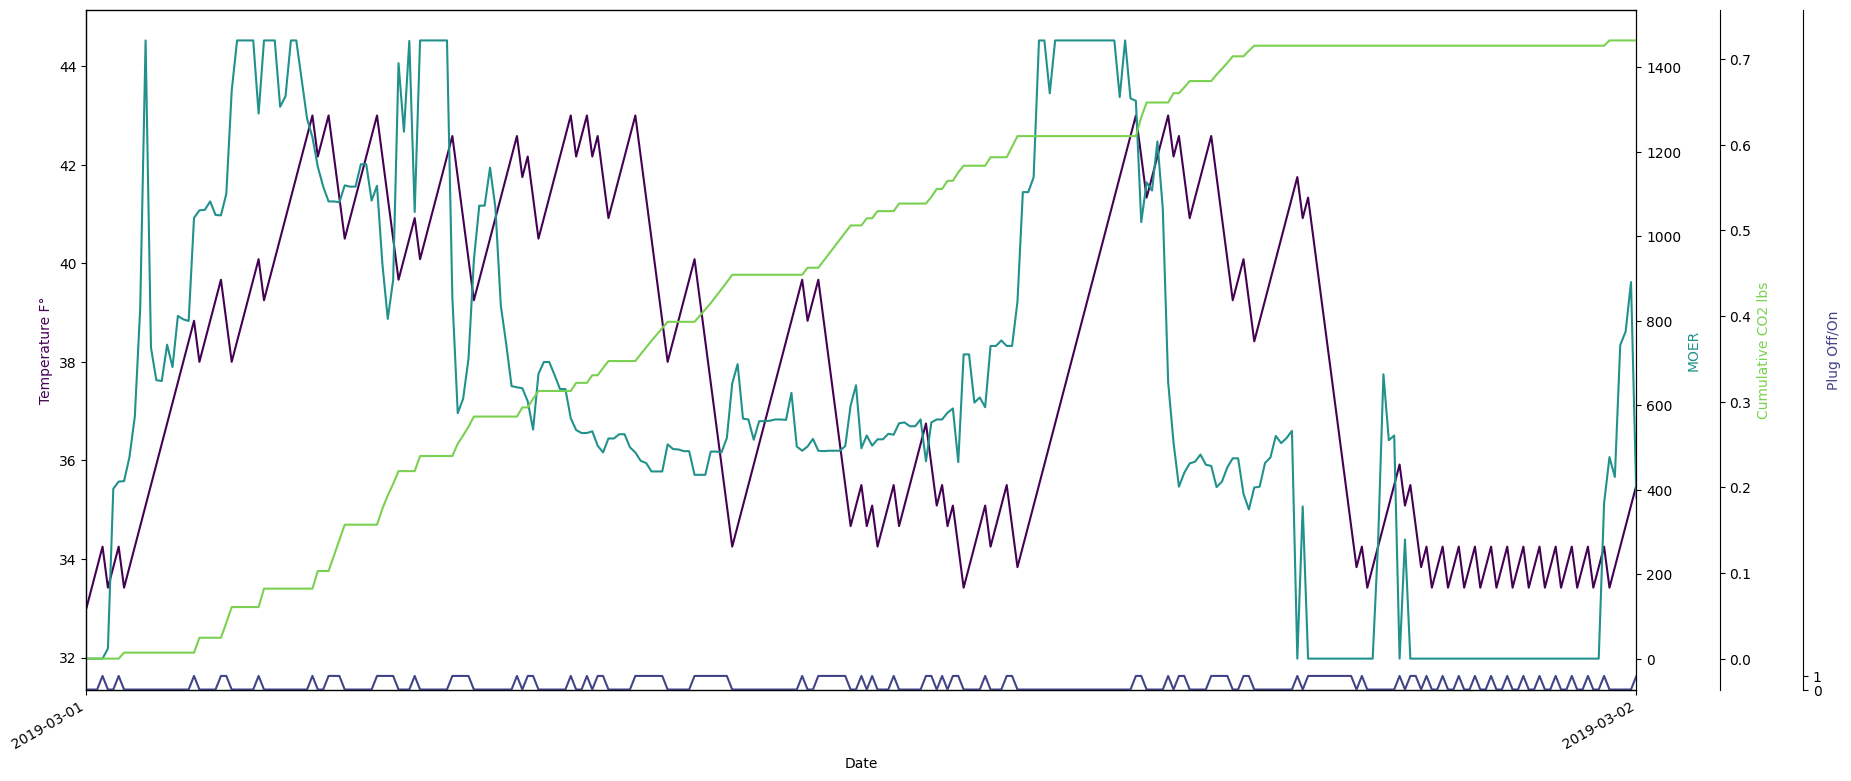
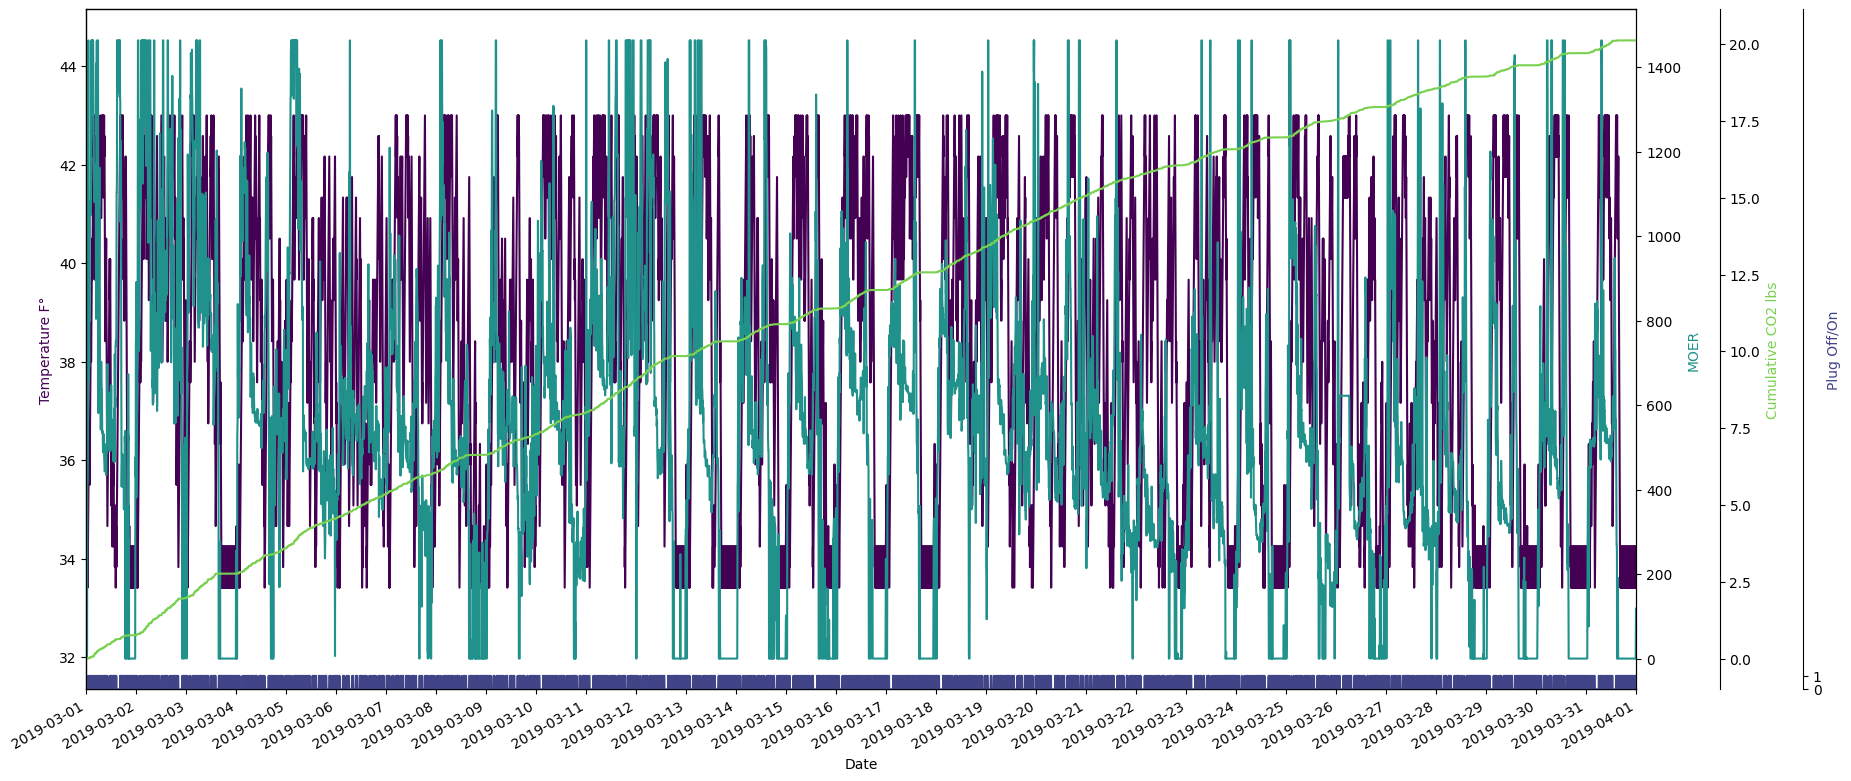
consolidate and rename paramerters

diff --git a/src/models.py b/src/models.py
@@ -16,34 +16,34 @@ class Naive:
         else:
             return 0
 
-    def update_horizon(self, time, moer):
+    def update_forecast(self, time, moer):
         pass
 
 
 class LinearProgramming:
     def __init__(
         self,
-        initial_horizon,
+        initial_forecast,
         initial_temp,
-        temp_delta_on,
-        temp_delta_off,
+        delta_on,
+        delta_off,
         temp_min,
         temp_max,
-        optimization_timesteps,
+        optimization_horizon_timesteps,
     ):
 
-        self.horizon = initial_horizon
+        self.forecast = initial_forecast
         self.temp_now = initial_temp
-        self.temp_delta_on = temp_delta_on
-        self.temp_delta_off = temp_delta_off
+        self.delta_on = delta_on
+        self.delta_off = delta_off
         self.temp_min = temp_min
         self.temp_max = temp_max
 
-        self.moer_history_sum = sum(initial_horizon)
-        self.moer_history_length = len(initial_horizon)
+        self.moer_history_sum = sum(initial_forecast)
+        self.moer_history_count = len(initial_forecast)
 
-        self.optimization_timesteps = optimization_timesteps
-        self.A = self.get_constraint_A(n=self.optimization_timesteps)
+        self.optimization_horizon_timesteps = optimization_horizon_timesteps
+        self.A = self.get_constraint_A(self.optimization_horizon_timesteps)
 
     def action(self, time):
         is_on = self.decide_action(time)
@@ -58,12 +58,12 @@ class LinearProgramming:
         elif self.temp_now + self.temp_delta(is_on=0) > self.temp_max:
             return 1
 
-        elif self.horizon[0] == 0:
+        elif self.forecast[0] == 0:
             return 1
 
         else:
-            b = self.get_constraint_b(self.optimization_timesteps)
-            c = self.get_cost(self.optimization_timesteps)
+            b = self.get_constraint_b(self.optimization_horizon_timesteps)
+            c = self.get_coefficients(self.optimization_horizon_timesteps)
             result = linprog(c, self.A, b, bounds=[(0, 1)], options={"maxiter": 50})
             logger.info(
                 f"at {time} temp: {self.temp_now} model's action: {result.x[0]}"
@@ -73,39 +73,35 @@ class LinearProgramming:
             return is_on
 
     def temp_delta(self, is_on):
-        return temprature_delta(is_on, self.temp_delta_on, self.temp_delta_off)
+        return temprature_delta(is_on, self.delta_on, self.delta_off)
 
-    def update_horizon(self, time, moer):
-        self.horizon = self.horizon[1:]
-        self.horizon.append(moer)
+    def update_forecast(self, time, moer):
+        self.forecast = self.forecast[1:]
+        self.forecast.append(moer)
         self.moer_history_sum += moer
-        self.moer_history_length += 1
+        self.moer_history_count += 1
 
-    def get_cost(self, n):
-        extension_length = n - len(self.horizon)
-        moer_average = self.moer_history_sum / self.moer_history_length
-        extended_horizon = self.horizon[:n] + [moer_average] * extension_length
-        return np.array(extended_horizon)
+    def get_coefficients(self, n):
+        extension_length = n - len(self.forecast)
+        moer_average = self.moer_history_sum / self.moer_history_count
+        extended_forecast = self.forecast[:n] + [moer_average] * extension_length
+        return np.array(extended_forecast)
 
     def get_constraint_b(self, n):
-        # max temperature constraint
         b_max_temp = [
-            self.temp_max - self.temp_now - self.temp_delta_off * x
-            for x in range(1, n + 1)
+            self.temp_max - self.temp_now - self.delta_off * x for x in range(1, n + 1)
         ]
         b_min_temp = [
-            self.temp_min - self.temp_now - self.temp_delta_off * x
-            for x in range(1, n + 1)
+            self.temp_min - self.temp_now - self.delta_off * x for x in range(1, n + 1)
         ]
         # multiply by -1 so that min temprature constraint is expressed as Ax <= b
         b_min_temp = -1 * np.array(b_min_temp)
         # combine the constraints
         b = np.concatenate((b_max_temp, b_min_temp))
-
         return b
 
     def get_constraint_A(self, n):
-        A_max_temp = np.tril(np.full((n, n), self.temp_delta_on - self.temp_delta_off))
+        A_max_temp = np.tril(np.full((n, n), self.delta_on - self.delta_off))
         # multiply by -1 so that min temprature constraint is expressed as Ax <= b
         A_min_temp = -1 * A_max_temp
         # combine the constraints

diff --git a/src/refrigerator_sim.py b/src/refrigerator_sim.py
@@ -6,49 +6,69 @@ from reader import read_time_series
 from datetime import datetime, timedelta
 from pathlib import Path
 
+# TODO implement as a config file
+##############
+# parameters #
+##############
+initial_temprature = 33
+maximum_temprature = 43
+minimum_temprature = 33
+
+# temprature(t + 1) = temprature(t) + delta_off + (delta_on * fridge_on(t))
+# where fridge_on(t) -> [0,1]
+delta_on = -10 / 12
+delta_off = 5 / 12
+fridge_power_kw = 0.2
+
+start_date = datetime(2019, 3, 1)
+end_date = datetime(2019, 4, 1)
+
+forecast_duration = timedelta(hours=1)
+timestep_duration = timedelta(minutes=5)
+
+optimization_horizon_timesteps = 24
+##############
+
+
 repo_root = Path(__file__).resolve().parent.parent
-data_file = repo_root / "data" / "MOERS.csv"
-horizon = [
+
+observations = read_time_series(repo_root / "data" / "MOERS.csv")
+initial_forecast = [
     observation.moer
-    for observation in read_time_series(data_file)
-    if datetime(2019, 3, 1) <= observation.time < datetime(2019, 3, 1, 1)
+    for observation in observations
+    if start_date <= observation.time <= start_date + forecast_duration
 ]
 
 lp_model = LinearProgramming(
-    initial_horizon=horizon,
-    initial_temp=33,
-    temp_delta_on=-10 / 12,
-    temp_delta_off=5 / 12,
-    temp_min=33,
-    temp_max=43,
-    optimization_timesteps=24,
+    initial_forecast,
+    initial_temprature,
+    delta_on,
+    delta_off,
+    minimum_temprature,
+    maximum_temprature,
+    optimization_horizon_timesteps,
 )
 
 sim = Simulator(
-    model=lp_model,
-    input_file=data_file,
-    start_date=datetime(2019, 3, 1),
-    end_date=datetime(2019, 4, 1),
-    horizon=timedelta(hours=1),
-    time_delta=timedelta(minutes=5),
+    lp_model, observations, start_date, end_date, forecast_duration, timestep_duration
 )
 
 sim.run()
 
-total_co2 = round(sim.total_co2(0.2 / 12), 3)
-print(f"total associated CO2: {total_co2} lbs")
+# TODO
+total_co2 = sim.total_co2(fridge_power_kw / 12)
+print(f"total associated CO2: {round(total_co2, 3)} lbs")
 
 total_runtime = sim.total_runtime()
 print(f"total fridge run time: {total_runtime}")
 
-# TODO implement configs to avoid the amount of parameter passing
 plot_refrigerator(
-    output_file=repo_root / "output" / "refrigerator.png",
-    events=sim.events,
-    power_in_kw=0.2,
-    temp_delta_on=-10 / 12,
-    temp_delta_off=5 / 12,
-    temp_max=43,
-    temp_min=33,
-    starting_temp=33,
+    repo_root / "output" / "refrigerator.png",
+    sim.events,
+    fridge_power_kw,
+    delta_on,
+    delta_off,
+    maximum_temprature,
+    minimum_temprature,
+    initial_temprature,
 )

diff --git a/src/simulator.py b/src/simulator.py
@@ -1,4 +1,3 @@
-from reader import read_time_series
 from utils import attributed_pounds_co2
 
 from collections import namedtuple
@@ -7,29 +6,39 @@ Event = namedtuple("event", ["time", "moer", "proportion_on"])
 
 
 class Simulator:
-    def __init__(self, model, input_file, start_date, end_date, horizon, time_delta):
+    def __init__(
+        self,
+        model,
+        observations,
+        start_date,
+        end_date,
+        forecast_duration,
+        timestep_duration,
+    ):
 
-        self.time_series = read_time_series(input_file)
+        self.observations = observations
         self.start_date = start_date
         self.end_date = end_date
         self.model = model
         self.events = []
-        self.horizon_n_timesteps = int(horizon / time_delta)
-        self.time_delta = time_delta
+        self.forecast_timestep_offset = int(forecast_duration / timestep_duration)
+        self.timestep_duration = timestep_duration
 
     def run(self):
-        for idx, observation in enumerate(self.time_series):
+        for idx, observation in enumerate(self.observations):
             if self.start_date <= observation.time <= self.end_date:
 
                 proportion_on = self.model.action(observation.time)
                 event = Event(observation.time, observation.moer, proportion_on)
                 self.events.append(event)
 
-                forecast = self.time_series[idx + self.horizon_n_timesteps]
-                self.model.update_horizon(forecast.time, forecast.moer)
+                next_forecast = self.observations[idx + self.forecast_timestep_offset]
+                self.model.update_forecast(next_forecast.time, next_forecast.moer)
 
     def total_runtime(self):
-        return sum(event.proportion_on for event in self.events) * self.time_delta
+        return (
+            sum(event.proportion_on for event in self.events) * self.timestep_duration
+        )
 
     def total_co2(self, power_in_kw):
         return sum(

diff --git a/src/plotter.py b/src/plotter.py
@@ -4,12 +4,10 @@ import matplotlib.pyplot as plt
 import matplotlib.dates as mdates
 
 
-def _get_tempratures(events, starting_temp, temp_delta_on, temp_delta_off):
-    tempratures = [starting_temp]
+def _get_tempratures(events, initial_temp, delta_on, delta_off):
+    tempratures = [initial_temp]
     for event in events:
-        temp_delta = temprature_delta(
-            event.proportion_on, temp_delta_on, temp_delta_off
-        )
+        temp_delta = temprature_delta(event.proportion_on, delta_on, delta_off)
         tempratures.append(tempratures[-1] + temp_delta)
     return tempratures[:-1]
 
@@ -22,21 +20,20 @@ def _get_cumulative_pounds_co2(moers, proportions_on, power_in_kw):
     return cumulative_co2[:-1]
 
 
-# not a big fan of multi-y-axis plots
 # modified version of: https://stackoverflow.com/a/45925049/6876077
 def plot_refrigerator(
     output_file,
     events,
     power_in_kw,
-    temp_delta_on,
-    temp_delta_off,
+    delta_on,
+    delta_off,
     temp_max,
     temp_min,
-    starting_temp,
+    initial_temp,
 ):
 
     times, moers, proportions_on = zip(*events)
-    tempratures = _get_tempratures(events, starting_temp, temp_delta_on, temp_delta_off)
+    tempratures = _get_tempratures(events, initial_temp, delta_on, delta_off)
     cumulative_co2_pounds = _get_cumulative_pounds_co2(
         moers, proportions_on, power_in_kw
     )
